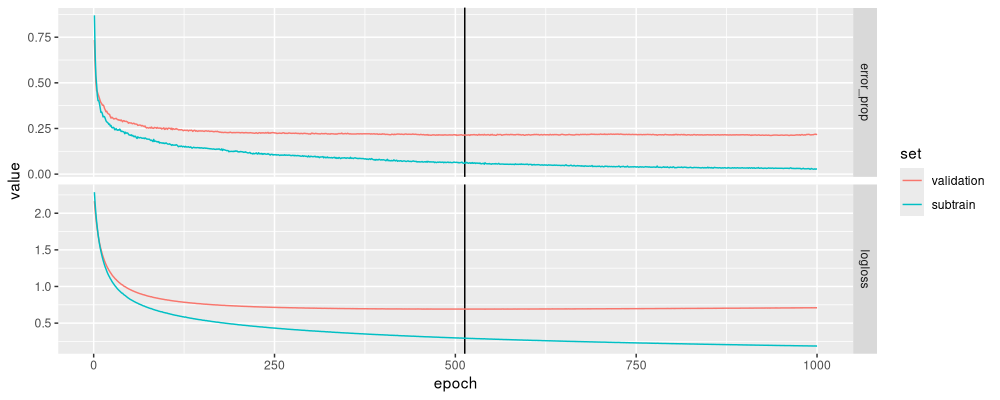
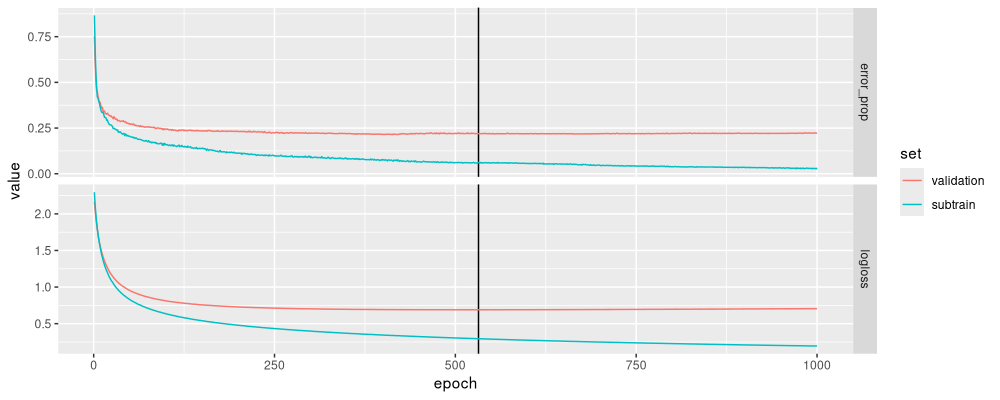
title

diff --git a/_posts/2024-10-30-mlr3torch.md b/_posts/2024-10-30-mlr3torch.md
@@ -1,6 +1,6 @@
 ---
 layout: post
-title: Cross-validation with neural networks
+title: Cross-validation experiments with torch learners
 description: Demonstration of mlr3torch + mlr3resampling
 ---
 
@@ -609,19 +609,19 @@ mlp_learner_auto$train(task.list$MNIST_FashionMNIST)
 ```
 
 ```
-## INFO  [09:48:04.280] [bbotk] Starting to optimize 0 parameter(s) with '<TunerBatchInternal>' and '<TerminatorEvals> [n_evals=1, k=0]'
-## INFO  [09:48:04.281] [bbotk] Evaluating 1 configuration(s)
-## INFO  [09:48:04.286] [mlr3] Running benchmark with 1 resampling iterations
-## INFO  [09:48:04.290] [mlr3] Applying learner 'classif.mlp' on task 'MNIST_FashionMNIST' (iter 1/1)
-## INFO  [09:48:52.086] [mlr3] Finished benchmark
-## INFO  [09:48:52.142] [bbotk] Result of batch 1:
-## INFO  [09:48:52.144] [bbotk]  internal_valid_score warnings errors runtime_learners internal_tuned_values                                uhash
-## INFO  [09:48:52.144] [bbotk]             0.7094273        0      0           47.659             <list[1]> 6e69207e-4c3a-4f44-9170-9b331f5649df
-## INFO  [09:48:52.163] [bbotk] Finished optimizing after 1 evaluation(s)
-## INFO  [09:48:52.164] [bbotk] Result:
-## INFO  [09:48:52.165] [bbotk]  internal_tuned_values learner_param_vals  x_domain internal_valid_score
-## INFO  [09:48:52.165] [bbotk]                 <list>             <list>    <list>                <num>
-## INFO  [09:48:52.165] [bbotk]              <list[1]>         <list[19]> <list[0]>            0.7094273
+## INFO  [10:14:48.077] [bbotk] Starting to optimize 0 parameter(s) with '<TunerBatchInternal>' and '<TerminatorEvals> [n_evals=1, k=0]'
+## INFO  [10:14:48.078] [bbotk] Evaluating 1 configuration(s)
+## INFO  [10:14:48.083] [mlr3] Running benchmark with 1 resampling iterations
+## INFO  [10:14:48.086] [mlr3] Applying learner 'classif.mlp' on task 'MNIST_FashionMNIST' (iter 1/1)
+## INFO  [10:15:35.781] [mlr3] Finished benchmark
+## INFO  [10:15:35.836] [bbotk] Result of batch 1:
+## INFO  [10:15:35.837] [bbotk]  internal_valid_score warnings errors runtime_learners internal_tuned_values                                uhash
+## INFO  [10:15:35.837] [bbotk]             0.7053771        0      0           47.527             <list[1]> ca34c414-9812-4b47-95b1-c6c013b3ba4d
+## INFO  [10:15:35.858] [bbotk] Finished optimizing after 1 evaluation(s)
+## INFO  [10:15:35.858] [bbotk] Result:
+## INFO  [10:15:35.859] [bbotk]  internal_tuned_values learner_param_vals  x_domain internal_valid_score
+## INFO  [10:15:35.859] [bbotk]                 <list>             <list>    <list>                <num>
+## INFO  [10:15:35.859] [bbotk]              <list[1]>         <list[19]> <list[0]>            0.7053771
 ```
 
 Note how simple this code is, relative to the code in the previous
@@ -673,17 +673,17 @@ melt_history <- function(DT)nc::capture_melt_single(
 ```
 ##       epoch        set    measure     value
 ##       <num>     <fctr>     <fctr>     <num>
-##    1:     1   subtrain    logloss 2.2874878
-##    2:     2   subtrain    logloss 2.1298497
-##    3:     3   subtrain    logloss 1.9994857
-##    4:     4   subtrain    logloss 1.8919139
-##    5:     5   subtrain    logloss 1.8044841
+##    1:     1   subtrain    logloss 2.2964028
+##    2:     2   subtrain    logloss 2.1236063
+##    3:     3   subtrain    logloss 1.9988996
+##    4:     4   subtrain    logloss 1.8959093
+##    5:     5   subtrain    logloss 1.8045186
 ##   ---                                      
-## 3996:   996 validation error_prop 0.2177822
-## 3997:   997 validation error_prop 0.2177822
-## 3998:   998 validation error_prop 0.2187812
-## 3999:   999 validation error_prop 0.2167832
-## 4000:  1000 validation error_prop 0.2187812
+## 3996:   996 validation error_prop 0.2227772
+## 3997:   997 validation error_prop 0.2227772
+## 3998:   998 validation error_prop 0.2227772
+## 3999:   999 validation error_prop 0.2217782
+## 4000:  1000 validation error_prop 0.2227772
 ```
 
 ``` r
@@ -694,7 +694,7 @@ melt_history <- function(DT)nc::capture_melt_single(
 ```
 ##    epochs
 ##     <int>
-## 1:    513
+## 1:    532
 ```
 
 ``` r
@@ -817,19 +817,19 @@ glearner_auto$train(task.list$MNIST_FashionMNIST)
 ```
 
 ```
-## INFO  [09:49:16.787] [bbotk] Starting to optimize 0 parameter(s) with '<TunerBatchInternal>' and '<TerminatorEvals> [n_evals=1, k=0]'
-## INFO  [09:49:16.788] [bbotk] Evaluating 1 configuration(s)
-## INFO  [09:49:16.792] [mlr3] Running benchmark with 1 resampling iterations
-## INFO  [09:49:16.795] [mlr3] Applying learner 'select.torch_ingress_num.nn_head.torch_loss.torch_optimizer.torch_callbacks.torch_model_classif' on task 'MNIST_FashionMNIST' (iter 1/1)
-## INFO  [09:51:01.672] [mlr3] Finished benchmark
-## INFO  [09:51:01.835] [bbotk] Result of batch 1:
-## INFO  [09:51:01.837] [bbotk]  internal_valid_score warnings errors runtime_learners internal_tuned_values                                uhash
-## INFO  [09:51:01.837] [bbotk]              0.713711        0      0          104.746             <list[1]> b8ecbc7b-a496-42d5-9170-12f2b1d38e15
-## INFO  [09:51:01.905] [bbotk] Finished optimizing after 1 evaluation(s)
-## INFO  [09:51:01.906] [bbotk] Result:
-## INFO  [09:51:01.908] [bbotk]  internal_tuned_values learner_param_vals  x_domain internal_valid_score
-## INFO  [09:51:01.908] [bbotk]                 <list>             <list>    <list>                <num>
-## INFO  [09:51:01.908] [bbotk]              <list[1]>         <list[16]> <list[0]>             0.713711
+## INFO  [10:16:01.979] [bbotk] Starting to optimize 0 parameter(s) with '<TunerBatchInternal>' and '<TerminatorEvals> [n_evals=1, k=0]'
+## INFO  [10:16:01.980] [bbotk] Evaluating 1 configuration(s)
+## INFO  [10:16:01.984] [mlr3] Running benchmark with 1 resampling iterations
+## INFO  [10:16:01.988] [mlr3] Applying learner 'select.torch_ingress_num.nn_head.torch_loss.torch_optimizer.torch_callbacks.torch_model_classif' on task 'MNIST_FashionMNIST' (iter 1/1)
+## INFO  [10:17:44.845] [mlr3] Finished benchmark
+## INFO  [10:17:44.906] [bbotk] Result of batch 1:
+## INFO  [10:17:44.908] [bbotk]  internal_valid_score warnings errors runtime_learners internal_tuned_values                                uhash
+## INFO  [10:17:44.908] [bbotk]             0.7314025        0      0          102.712             <list[1]> e2cc2233-7bf9-4e4f-a4f4-f864573d0788
+## INFO  [10:17:44.943] [bbotk] Finished optimizing after 1 evaluation(s)
+## INFO  [10:17:44.943] [bbotk] Result:
+## INFO  [10:17:44.944] [bbotk]  internal_tuned_values learner_param_vals  x_domain internal_valid_score
+## INFO  [10:17:44.944] [bbotk]                 <list>             <list>    <list>                <num>
+## INFO  [10:17:44.944] [bbotk]              <list[1]>         <list[16]> <list[0]>            0.7314025
 ```
 
 ``` r
@@ -855,17 +855,17 @@ glearner_model <- glearner_auto$archive$learners(1)[[1]]$model
 ```
 ##       epoch        set    measure     value
 ##       <num>     <fctr>     <fctr>     <num>
-##    1:     1   subtrain    logloss 2.2857099
-##    2:     2   subtrain    logloss 2.1159052
-##    3:     3   subtrain    logloss 1.9891293
-##    4:     4   subtrain    logloss 1.8835252
-##    5:     5   subtrain    logloss 1.7922367
+##    1:     1   subtrain    logloss 2.2776291
+##    2:     2   subtrain    logloss 2.1146995
+##    3:     3   subtrain    logloss 1.9905747
+##    4:     4   subtrain    logloss 1.8862677
+##    5:     5   subtrain    logloss 1.7931673
 ##   ---                                      
-## 3996:   996 validation error_prop 0.2147852
-## 3997:   997 validation error_prop 0.2147852
-## 3998:   998 validation error_prop 0.2147852
-## 3999:   999 validation error_prop 0.2147852
-## 4000:  1000 validation error_prop 0.2147852
+## 3996:   996 validation error_prop 0.2187812
+## 3997:   997 validation error_prop 0.2197802
+## 3998:   998 validation error_prop 0.2187812
+## 3999:   999 validation error_prop 0.2207792
+## 4000:  1000 validation error_prop 0.2187812
 ```
 
 ``` r
@@ -876,7 +876,7 @@ glearner_model <- glearner_auto$archive$learners(1)[[1]]$model
 ```
 ##    torch_model_classif.epochs
 ##                         <int>
-## 1:                        515
+## 1:                        453
 ```
 
 ``` r
@@ -935,7 +935,7 @@ for(s_param in c("min", "1se")){
 ## 10: MNIST_FashionMNIST cv_glmnet_1se same_other_sizes_cv
 ```
 
-Above we see a summary of the benchmark: two tasks, five learner, and
+Above we see a summary of the benchmark: two tasks, five learners, and
 one resampling method. Below we declare a future plan for computation
 in parallel on this machine. For larger experiments you can use
 `mlr3batchmark` to compute in parallel on a cluster, see my blogs on
